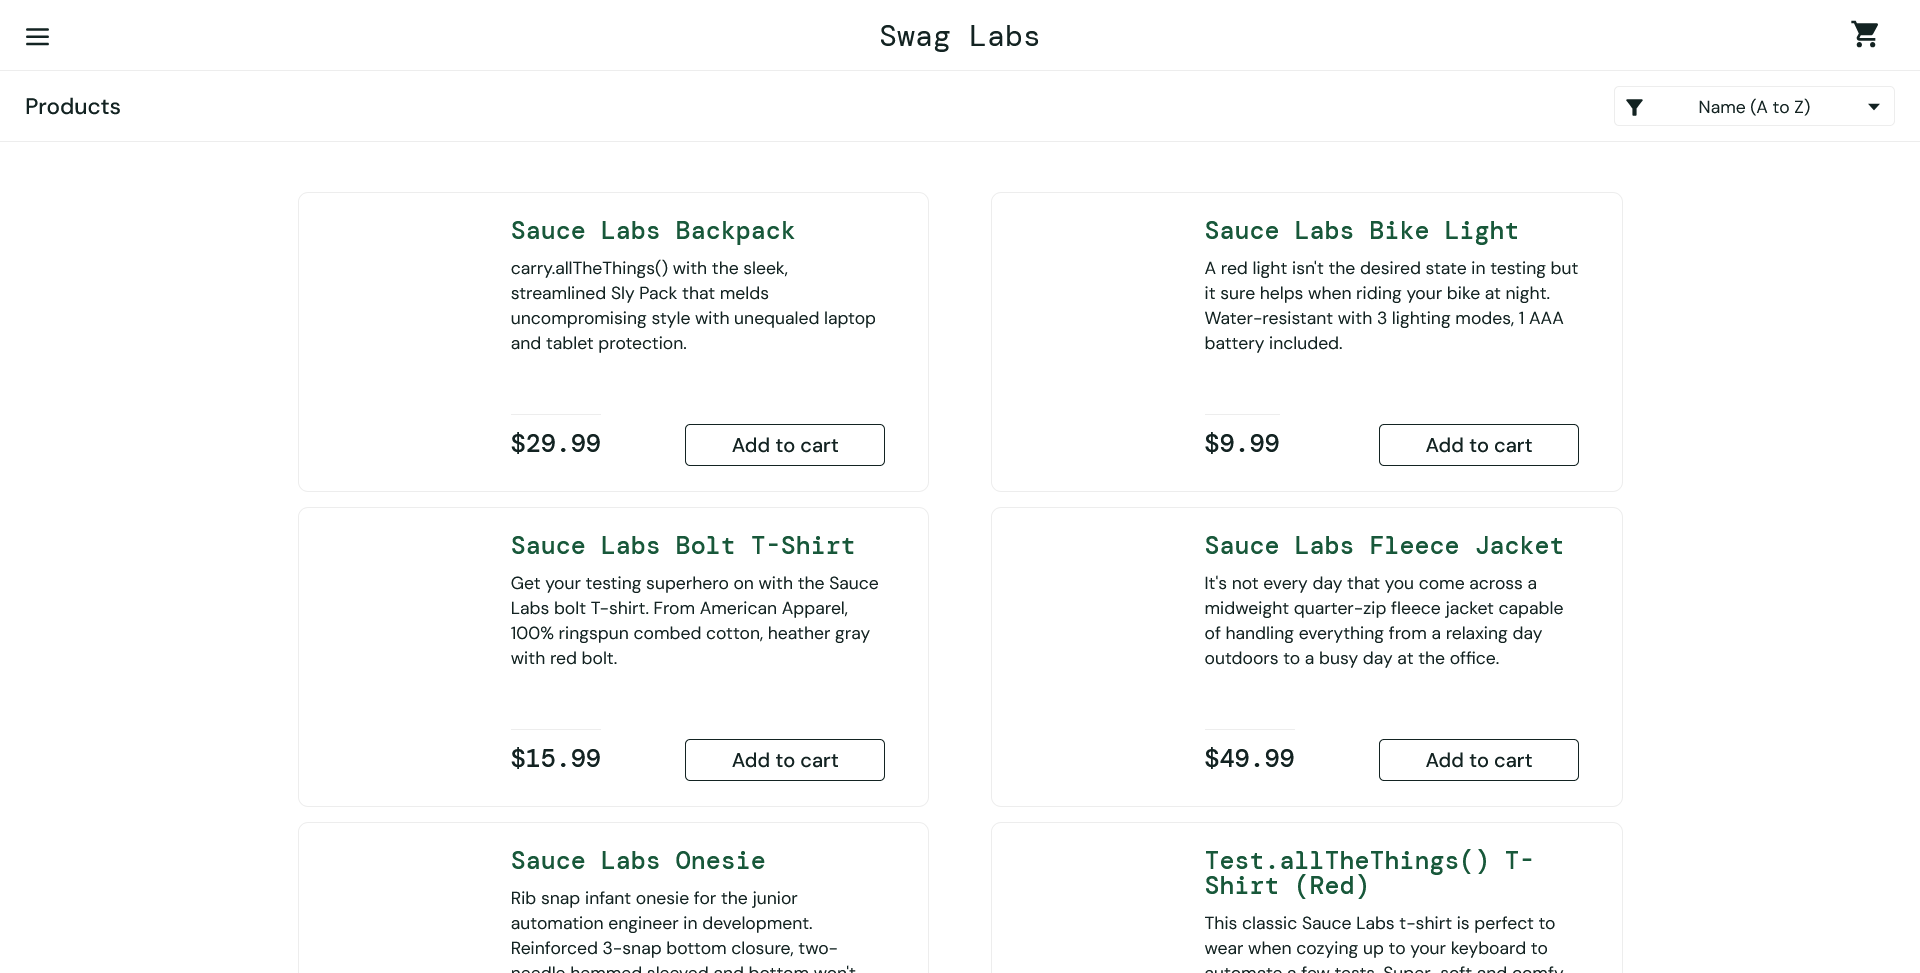
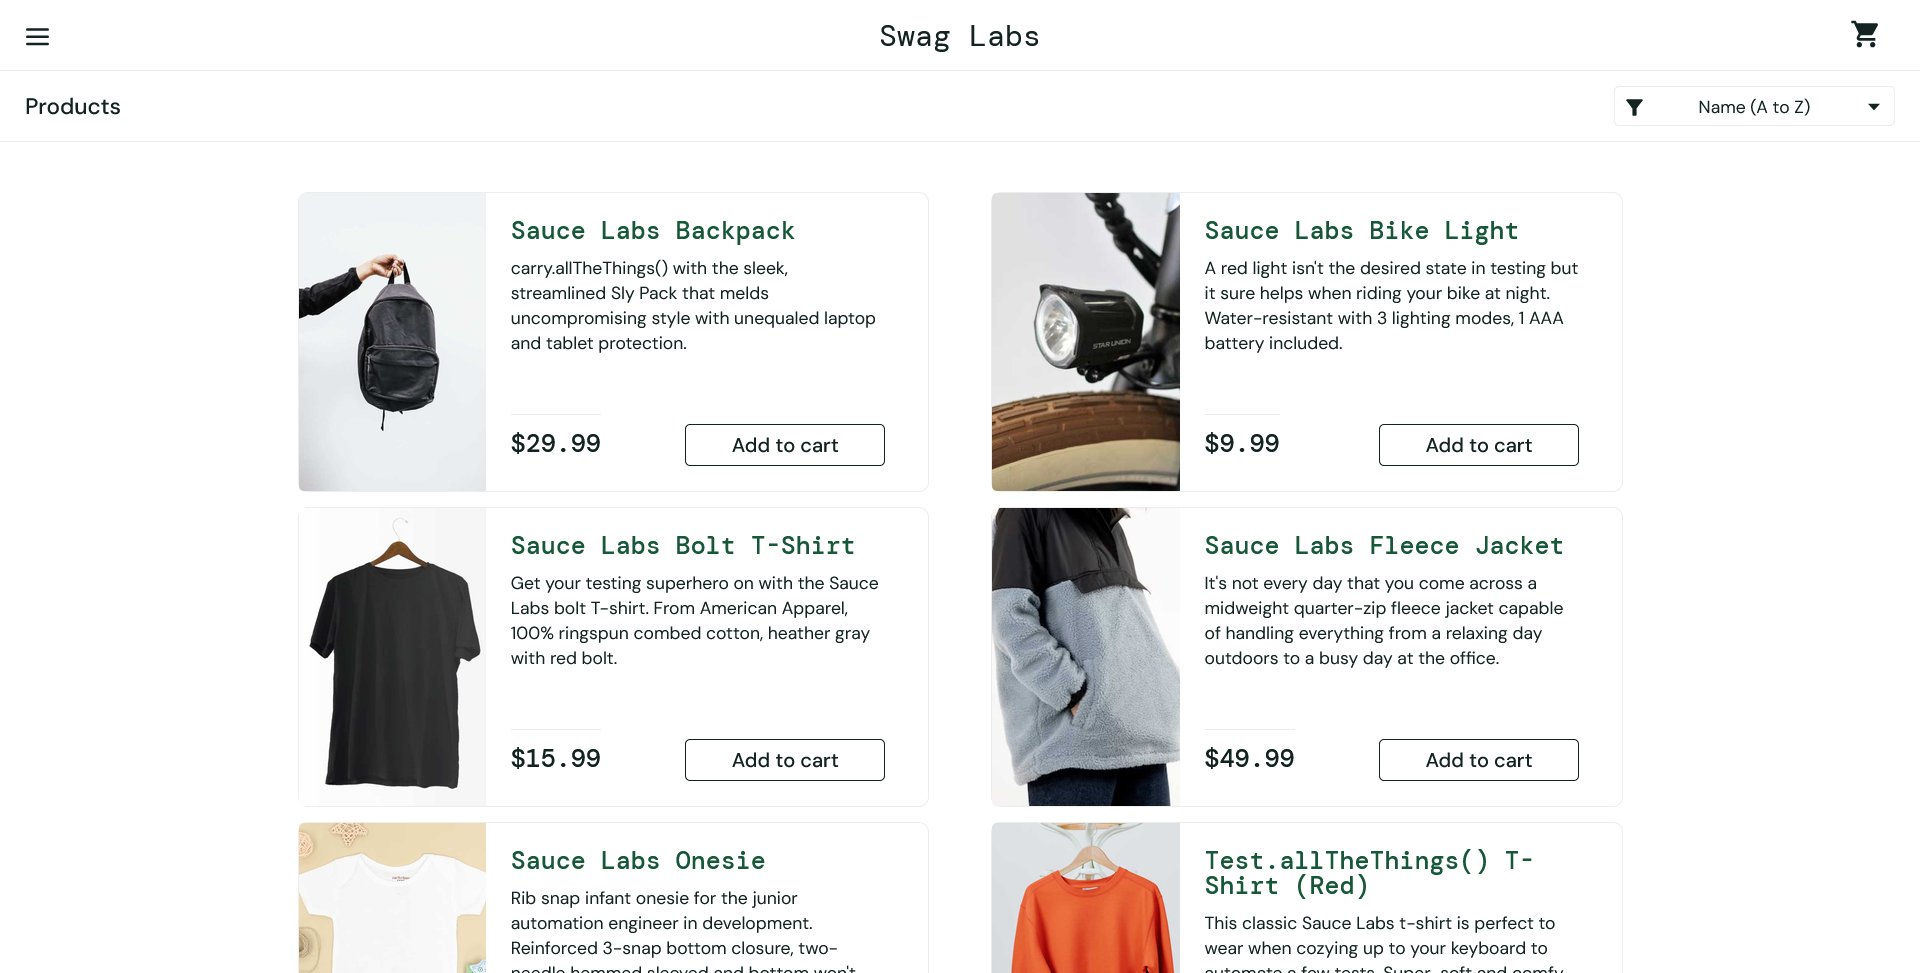
updated

diff --git a/Demo/test-output/index.html b/Demo/test-output/index.html
@@ -50,7 +50,7 @@
               <ul>
                 <li>
                   <a href="#" panel-name="test-xml-Default_suite" class="navigator-link ">
-                    <span>C:\Users\Rushikesh\AppData\Local\Temp\testng-eclipse-592998780\testng-customsuite.xml</span>
+                    <span>C:\Users\Rushikesh\AppData\Local\Temp\testng-eclipse-1577724981\testng-customsuite.xml</span>
                   </a> <!-- navigator-link  -->
                 </li>
                 <li>
@@ -148,7 +148,7 @@
         </div> <!-- panel Default_suite -->
         <div panel-name="test-xml-Default_suite" class="panel">
           <div class="main-panel-header rounded-window-top">
-            <span class="header-content">C:\Users\Rushikesh\AppData\Local\Temp\testng-eclipse-592998780\testng-customsuite.xml</span>
+            <span class="header-content">C:\Users\Rushikesh\AppData\Local\Temp\testng-eclipse-1577724981\testng-customsuite.xml</span>
           </div> <!-- main-panel-header rounded-window-top -->
           <div class="main-panel-content rounded-window-bottom">
             <pre>
@@ -199,18 +199,18 @@ data.addColumn('string', 'Class');
 data.addColumn('number', 'Time (ms)');
 data.addRows(2);
 data.setCell(0, 0, 0)
-data.setCell(0, 1, 'login1')
+data.setCell(0, 1, 'login2')
 data.setCell(0, 2, 'pomDemo.Demo1')
-data.setCell(0, 3, 429);
+data.setCell(0, 3, 5109);
 data.setCell(1, 0, 1)
-data.setCell(1, 1, 'login2')
+data.setCell(1, 1, 'login1')
 data.setCell(1, 2, 'pomDemo.Demo1')
-data.setCell(1, 3, 134);
+data.setCell(1, 3, 253);
 window.suiteTableData['Default_suite']= { tableData: data, tableDiv: 'times-div-Default_suite'}
 return data;
 }
               </script>
-              <span class="suite-total-time">Total running time: 563 ms</span>
+              <span class="suite-total-time">Total running time: 5 seconds</span>
               <div id="times-div-Default_suite">
               </div> <!-- times-div-Default_suite -->
             </div> <!-- times-div -->
@@ -243,19 +243,19 @@ return data;
               </div> <!-- configuration-test before -->
               <div class="test-method">
                 <span class="method-name">login1</span>
-                <span class="method-start">4873 ms</span>
+                <span class="method-start">4124 ms</span>
               </div> <!-- test-method -->
               <div class="configuration-method after">
                 <span class="method-name">logout</span>
-                <span class="method-start">5308 ms</span>
+                <span class="method-start">4385 ms</span>
               </div> <!-- configuration-method after -->
               <div class="test-method">
                 <span class="method-name">login2</span>
-                <span class="method-start">8883 ms</span>
+                <span class="method-start">7540 ms</span>
               </div> <!-- test-method -->
               <div class="configuration-method after">
                 <span class="method-name">logout</span>
-                <span class="method-start">9025 ms</span>
+                <span class="method-start">12650 ms</span>
               </div> <!-- configuration-method after -->
           </div> <!-- main-panel-content rounded-window-bottom -->
         </div> <!-- panel -->

diff --git a/Demo/test-output/emailable-report.html b/Demo/test-output/emailable-report.html
@@ -9,9 +9,9 @@
 <table>
 <tr><th>Test</th><th># Passed</th><th># Skipped</th><th># Retried</th><th># Failed</th><th>Time (ms)</th><th>Included Groups</th><th>Excluded Groups</th></tr>
 <tr><th colspan="8">Default suite</th></tr>
-<tr><td><a href="#t0">Default test</a></td><td class="num">2</td><td class="num">0</td><td class="num">0</td><td class="num">0</td><td class="num">12,187</td><td></td><td></td></tr>
+<tr><td><a href="#t0">Default test</a></td><td class="num">2</td><td class="num">0</td><td class="num">0</td><td class="num">0</td><td class="num">15,816</td><td></td><td></td></tr>
 </table>
-<table id='summary'><thead><tr><th>Class</th><th>Method</th><th>Start</th><th>Time (ms)</th></tr></thead><tbody><tr><th colspan="4">Default suite</th></tr></tbody><tbody id="t0"><tr><th colspan="4">Default test &#8212; passed</th></tr><tr class="passedeven"><td rowspan="2">pomDemo.Demo1</td><td><a href="#m0">login1</a></td><td rowspan="1">1794886549071</td><td rowspan="1">429</td></tr><tr class="passedeven"><td><a href="#m1">login2</a></td><td rowspan="1">1794886553081</td><td rowspan="1">134</td></tr></tbody>
+<table id='summary'><thead><tr><th>Class</th><th>Method</th><th>Start</th><th>Time (ms)</th></tr></thead><tbody><tr><th colspan="4">Default suite</th></tr></tbody><tbody id="t0"><tr><th colspan="4">Default test &#8212; passed</th></tr><tr class="passedeven"><td rowspan="2">pomDemo.Demo1</td><td><a href="#m0">login1</a></td><td rowspan="1">1794889175631</td><td rowspan="1">253</td></tr><tr class="passedeven"><td><a href="#m1">login2</a></td><td rowspan="1">1794889179047</td><td rowspan="1">5109</td></tr></tbody>
 </table>
 <h2>Default test</h2><h3 id="m0">pomDemo.Demo1#login1</h3><table class="result"><tr><th class="invisible"/></tr></table><p class="totop"><a href="#summary">back to summary</a></p>
 <h3 id="m1">pomDemo.Demo1#login2</h3><table class="result"><tr><th class="invisible"/></tr></table><p class="totop"><a href="#summary">back to summary</a></p>

diff --git a/Demo/test-output/Default suite/Default test.html b/Demo/test-output/Default suite/Default test.html
@@ -57,9 +57,9 @@ function toggleAllBoxes() {
 <tr>
 <td>Tests passed/Failed/Skipped:</td><td>2/0/0</td>
 </tr><tr>
-<td>Started on:</td><td>Tue Nov 17 09:05:44 IST 2026</td>
+<td>Started on:</td><td>Tue Nov 17 09:49:31 IST 2026</td>
 </tr>
-<tr><td>Total time:</td><td>12 seconds (12187 ms)</td>
+<tr><td>Total time:</td><td>15 seconds (15816 ms)</td>
 </tr><tr>
 <td>Included groups:</td><td></td>
 </tr><tr>
@@ -79,12 +79,12 @@ function toggleAllBoxes() {
 <td title='pomDemo.Demo1.login1()'><b>login1</b><br>Test class: pomDemo.Demo1</td>
 <td></td>
 <td>0</td>
-<td>pomDemo.Demo1@58a9760d</td></tr>
+<td>pomDemo.Demo1@4e3958e7</td></tr>
 <tr>
 <td title='pomDemo.Demo1.login2()'><b>login2</b><br>Test class: pomDemo.Demo1</td>
 <td></td>
-<td>0</td>
-<td>pomDemo.Demo1@58a9760d</td></tr>
+<td>5</td>
+<td>pomDemo.Demo1@4e3958e7</td></tr>
 </table><p>
 </body>
 </html>

diff --git a/Demo/src/pomDemo/Demo1.java b/Demo/src/pomDemo/Demo1.java
@@ -1,58 +1,61 @@
+
 package pomDemo;
 
-
-import java.io.IOException;
-
-import org.openqa.selenium.By;
-
+import org.openqa.selenium.WebElement;
 import org.testng.annotations.*;
 
 public class Demo1 extends Utility {
-	
-	@BeforeTest
-	public void open() {
-		
-		open("firefox");
-		open_url("https://www.saucedemo.com/");
-	}
-	
-	@Test
-	public void login1(){		
-		
-		driver.findElement(By.xpath("//*[@id=\"user-name\"]")).sendKeys("standard_user");
-		driver.findElement(By.xpath("//*[@id=\"password\"]")).sendKeys("secret_sauce");		
-		driver.findElement(By.xpath("//*[@id=\"login-button\"]")).click();
-		try {
-			screenShot("swag");
-		} catch (IOException e) {
-			// TODO Auto-generated catch block
-			e.printStackTrace();
-		}
-		
-	}
-	
-	@Test
-	public void login2(){		
-		
-		driver.findElement(By.xpath("//*[@id=\"user-name\"]")).sendKeys("standard_user");
-		driver.findElement(By.xpath("//*[@id=\"password\"]")).sendKeys("secret_sauce");		
-		driver.findElement(By.xpath("//*[@id=\"login-button\"]")).click();
-		
-	}
-	
-	@AfterMethod
-	public void logout(){
-		pause(3000);
-		driver.findElement(By.xpath("//*[@id=\"react-burger-menu-btn\"]")).click();
-		driver.findElement(By.xpath("//*[@id=\"logout_sidebar_link\"]")).click();
-	}
-	
-	@AfterClass
-	public void close() {
-		pause(3000);
-		close();
-	}
-	
+
+    Repository repo = new Repository();
+
+    @BeforeTest
+    public void open() {
+
+        open("firefox");
+        open_url("https://www.saucedemo.com/");
+
+    }
+
+    @Test(priority = 1)
+    public void login1() {
+
+        WebElement name = driver.findElement(repo.name);
+        name.sendKeys("standard_user");
+
+        WebElement password = driver.findElement(repo.password);
+        password.sendKeys("secret_sauce");
+
+        WebElement button = driver.findElement(repo.loginButton);
+        button.click();
+
+    }
+
+    @Test(priority = 2)
+    public void login2() {
+
+        WebElement name = driver.findElement(repo.name);
+        name.sendKeys("performance_glitch_user");
+
+        WebElement password = driver.findElement(repo.password);
+        password.sendKeys("secret_sauce");
+
+        WebElement button = driver.findElement(repo.loginButton);
+        button.click();
+
+    }
+    @AfterMethod
+    public void logout() {
+    	
+    	pause(3000);
+
+        if (driver.getCurrentUrl().contains("inventory")) {
+
+            driver.findElement(repo.menu).click();
+
+            driver.findElement(repo.logoutButton).click();
+
+        }
+    }
 
 
 }

diff --git a/Demo/src/pomDemo/Utility.java b/Demo/src/pomDemo/Utility.java
@@ -10,6 +10,7 @@ import org.openqa.selenium.WebDriver;
 import org.openqa.selenium.chrome.ChromeDriver;
 import org.openqa.selenium.firefox.FirefoxDriver;
 import org.openqa.selenium.io.FileHandler;
+import org.testng.annotations.AfterMethod;
 
 public class Utility {
 	
@@ -44,14 +45,19 @@ public class Utility {
 		driver.get(name);
 	}
 	
-	 public void screenShot(String name) throws IOException {
+	 public void screenShot(String name) {
 
 	        TakesScreenshot ts = (TakesScreenshot) driver;
 
 	        File from = ts.getScreenshotAs(OutputType.FILE);
 	        File to = new File(name+".png");
 
-	        FileHandler.copy(from, to);
+	        try {
+				FileHandler.copy(from, to);
+			} catch (IOException e) {
+				// TODO Auto-generated catch block
+				e.printStackTrace();
+			}
 
 	        System.out.println("Screenshot saved successfully!");
 	    }

diff --git a/Demo/src/pomDemo/Repository.java b/Demo/src/pomDemo/Repository.java
@@ -1,5 +1,14 @@
 package pomDemo;
 
+import org.openqa.selenium.By;
+
 public class Repository {
+	
+	By name = By.xpath("//*[@id=\"user-name\"]");
+	By password = By.xpath("//*[@id=\"password\"]");
+	By loginButton = By.xpath("//*[@id=\"login-button\"]");
+	
+	By menu = By.xpath("//*[@id=\"react-burger-menu-btn\"]");
+	By logoutButton =By.xpath("//*[@id=\"logout_sidebar_link\"]");
 
 }
